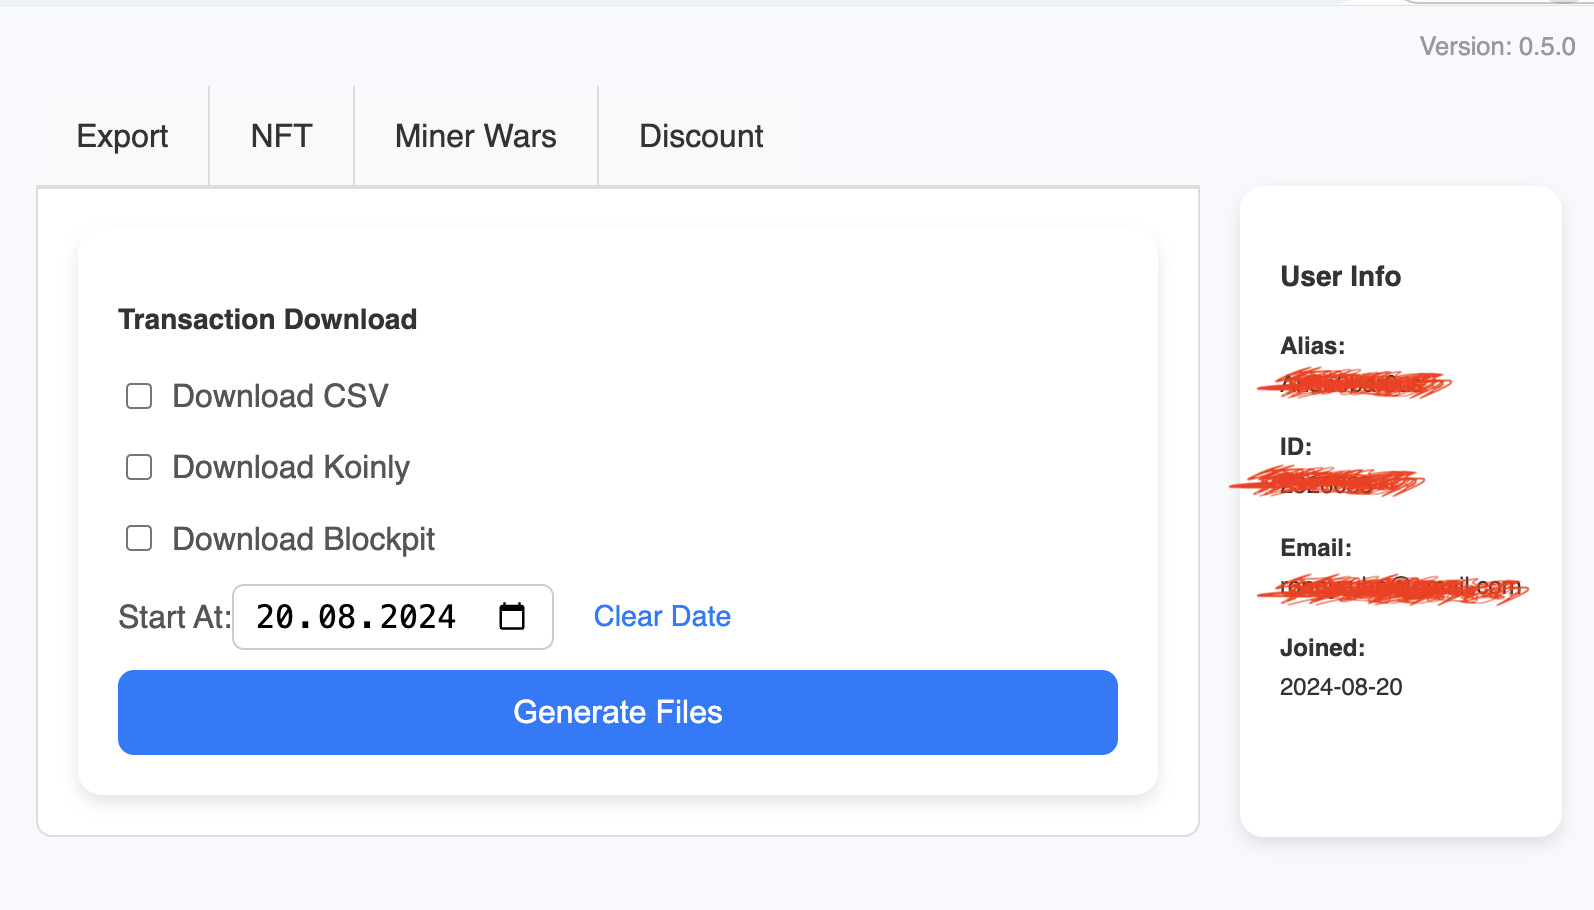
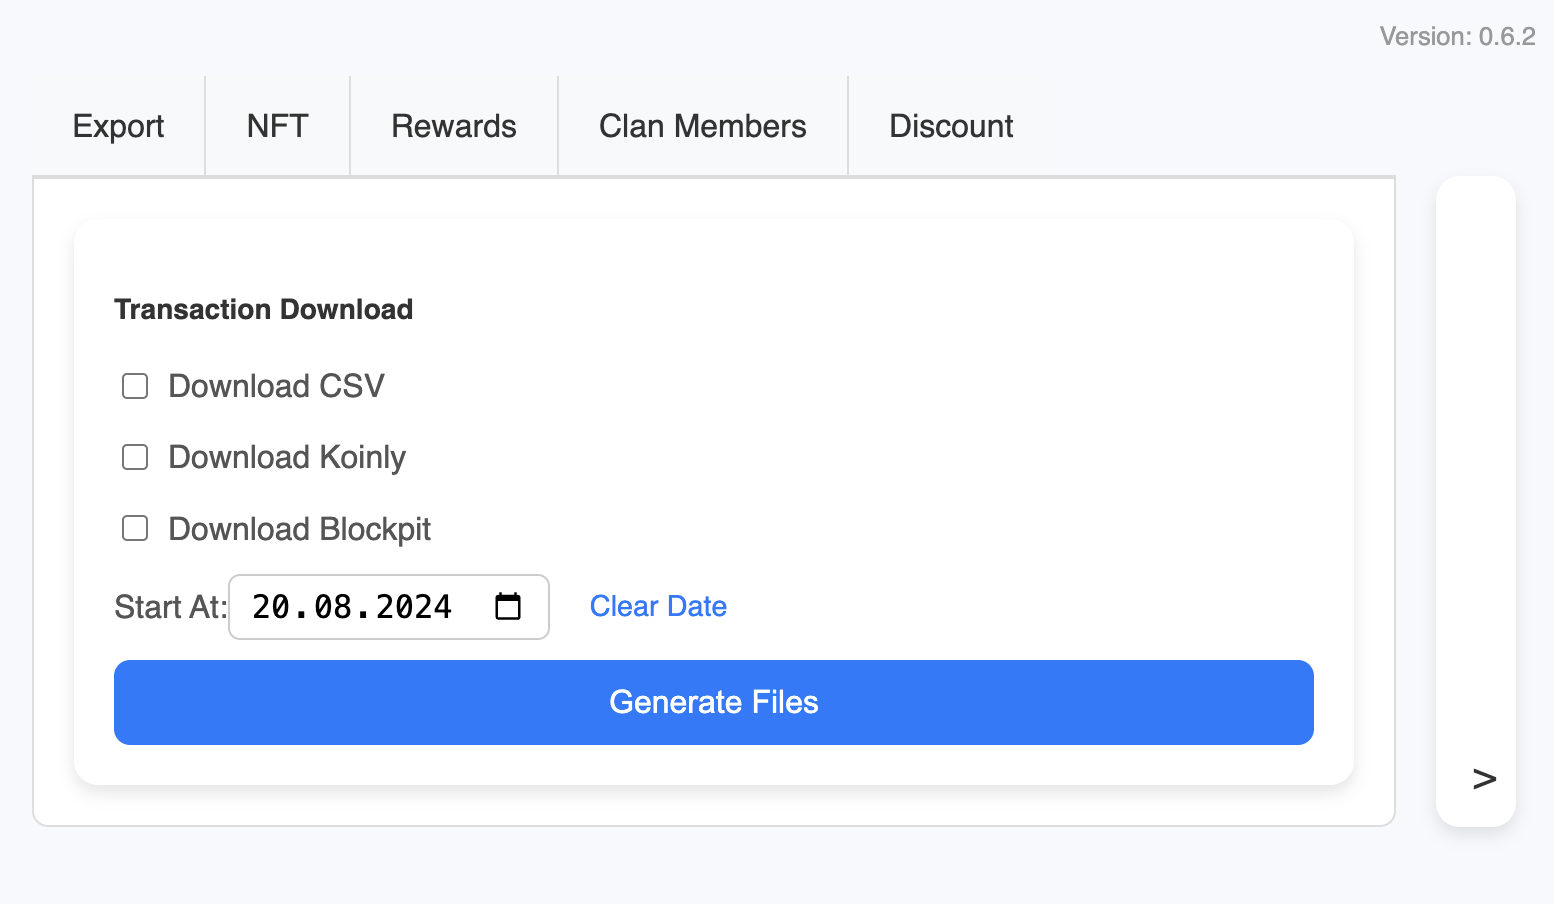
collapse user menue

diff --git a/scripts/popup.js b/scripts/popup.js
@@ -128,6 +128,20 @@ document.addEventListener("DOMContentLoaded", async () => {
         document.getElementById("alias").textContent = "Error";
     }
 
+    // Toggle user-info section
+    const userInfo = document.querySelector('.user-info');
+    const toggleIcon = userInfo.querySelector('.toggle-icon');
+
+    userInfo.querySelector('.toggle-container').addEventListener('click', () => {
+        userInfo.classList.toggle('collapsed');
+        toggleIcon.textContent = userInfo.classList.contains('collapsed') ? '>' : '<';
+
+        // Adjust the width of other containers
+        document.querySelectorAll('.container, .nft-info, .discount-info, .mw-info, .rewards-info, .clan-info').forEach(container => {
+            container.style.width = userInfo.classList.contains('collapsed') ? '600px' : '500px';
+        });
+    });
+
     // Fetch all miners
     try {
         const bearerToken = await getBearerTokenFromCookie();
@@ -269,7 +283,6 @@ document.addEventListener("DOMContentLoaded", async () => {
         const clanMemberCount = document.getElementById('clan-member-count');
         const sortSelect = document.getElementById('sort-clan-members');
         const filterSelect = document.getElementById('filter-clan-members');
-        const abilityFilterSelect = document.getElementById('filter-abilities');
         const totalSumElement = document.getElementById('total-sum');
         clanList.innerHTML = '';
         clanMemberCount.textContent = clanMembers.length;

diff --git a/ui/popup.html b/ui/popup.html
@@ -104,11 +104,15 @@
             </div>
             
             <div class="user-info">
-                <h3>User Info</h3>
-                <p><strong>Alias:</strong> <br> <span id="alias"></span></p>
-                <p><strong>ID:</strong> <br> <span id="user-id"></span></p>
-                <p><strong>Email:</strong> <br> <span id="email"></span></p>
-                <p><strong>Joined:</strong> <br> <span id="createdAt"></span></p>
+                <div class="user-info-content">
+                    <p><strong>Alias:</strong> <br> <span id="alias"></span></p>
+                    <p><strong>ID:</strong> <br> <span id="user-id"></span></p>
+                    <p><strong>Email:</strong> <br> <span id="email"></span></p>
+                    <p><strong>Joined:</strong> <br> <span id="createdAt"></span></p>
+                </div>
+                <div class="toggle-container">
+                    <span class="toggle-icon">&lt;</span>
+                </div>
             </div>
 
             <div id="version-info"></div>

diff --git a/styles/styles.css b/styles/styles.css
@@ -36,11 +36,55 @@ h2 {
     width: 500px;
     flex: 2;
     margin: 0 auto;
+    transition: width 0.3s ease;
 }
 
 .user-info {
     flex: 1;
     margin-top: 50px;
+    transition: max-width 0.3s ease;
+    overflow: hidden;
+    max-width: 300px;
+    position: relative;
+}
+
+.user-info.collapsed {
+    max-width: 0;
+}
+
+.user-info-content {
+    display: block;
+    transition: opacity 0.3s ease;
+}
+
+.user-info.collapsed .user-info-content {
+    display: none;
+    opacity: 0;
+}
+
+.toggle-container {
+    position: absolute;
+    bottom: 10px;
+    right: 10px;
+    cursor: pointer;
+}
+
+.toggle-icon {
+    font-size: 1.2rem;
+    transition: transform 0.3s ease;
+}
+
+.user-info.collapsed .toggle-icon {
+    transform: rotate(180deg);
+}
+
+.user-info.collapsed ~ .container,
+.user-info.collapsed ~ .nft-info,
+.user-info.collapsed ~ .discount-info,
+.user-info.collapsed ~ .mw-info,
+.user-info.collapsed ~ .rewards-info,
+.user-info.collapsed ~ .clan-info {
+    width: 600px;
 }
 
 /* Status Label */

diff --git a/CHANGELOG.md b/CHANGELOG.md
@@ -1,6 +1,10 @@
 # Changelog
 
-## Version 0.6.1
+## Version 0.6.3
+### Added
+- user panel collaps
+
+## Version 0.6.2
 ### Added
 - Marked sold nft as sold
 
